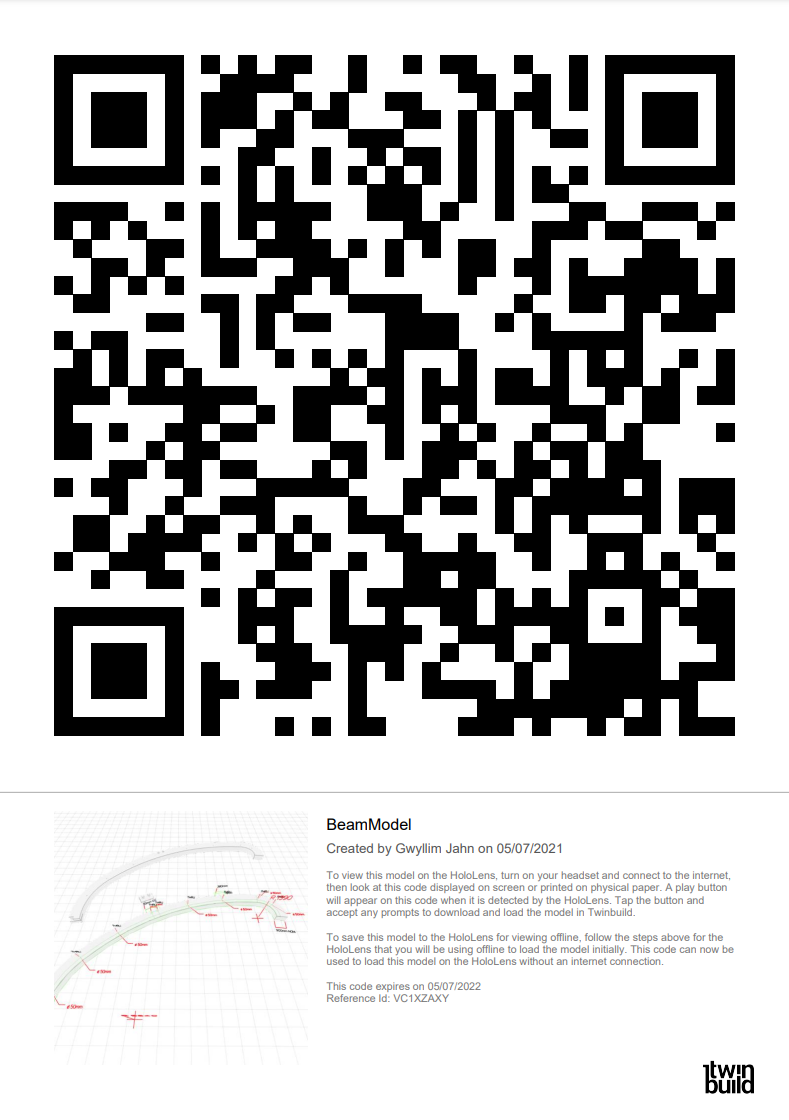
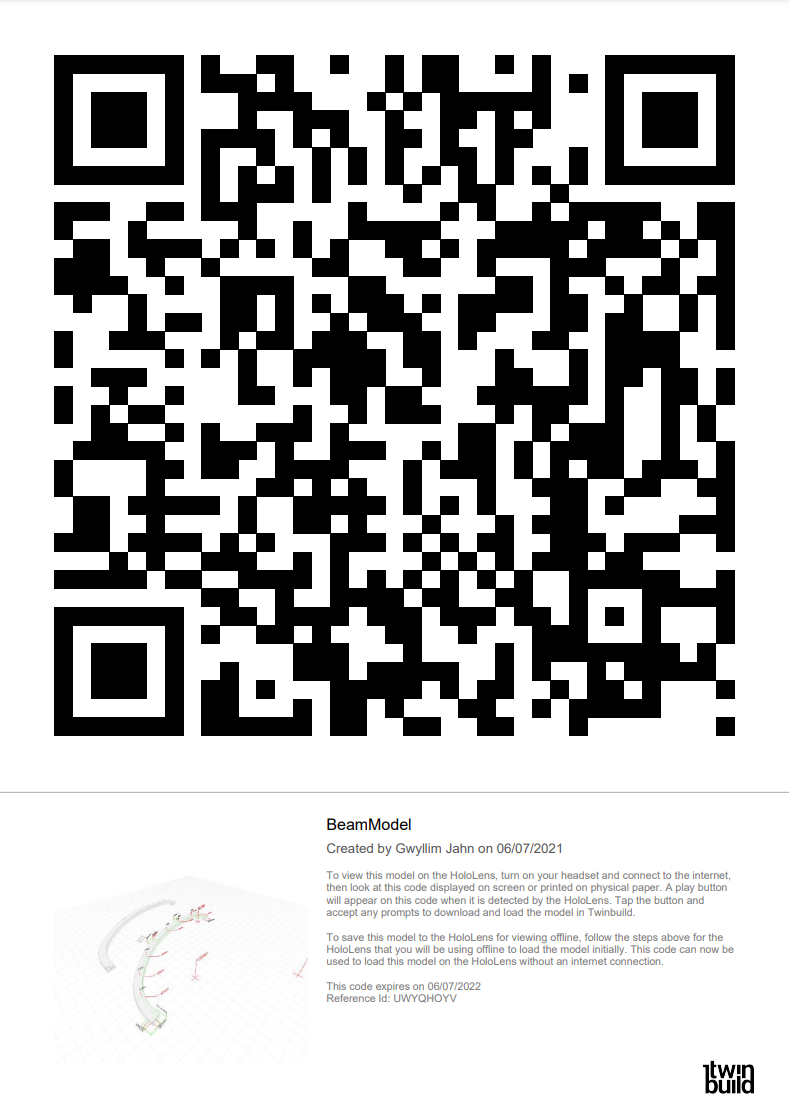
Updated link and offline qr code for demo

diff --git a/account-dashboard/creating-account.md b/account-dashboard/creating-account.md
@@ -12,7 +12,7 @@ A free Twinbuild account is required for publishing models, managing teams and p
 
 ![Sign up for Twinbuild]({{ site.baseurl}}/img/1_Twinbuild_Account_SignIn.png "Sign up for Twinbuild")
 
-If you and your team are working with Twinbuild for the first time, visit account.twinbuild.com and sign in using your company's Google or Microsoft email, or by completing the sign up form and providing an email and password.
+If you and your team are working with Twinbuild for the first time, visit https://account.twinbuild.com and sign in using your company's Google or Microsoft email, or by completing the sign up form and providing an email and password.
 
 ![Twinbuild account dashboard]({{ site.baseurl}}/img/2_Twinbuild_Account_Welcome.png "Twinbuild account dashboard")
 
